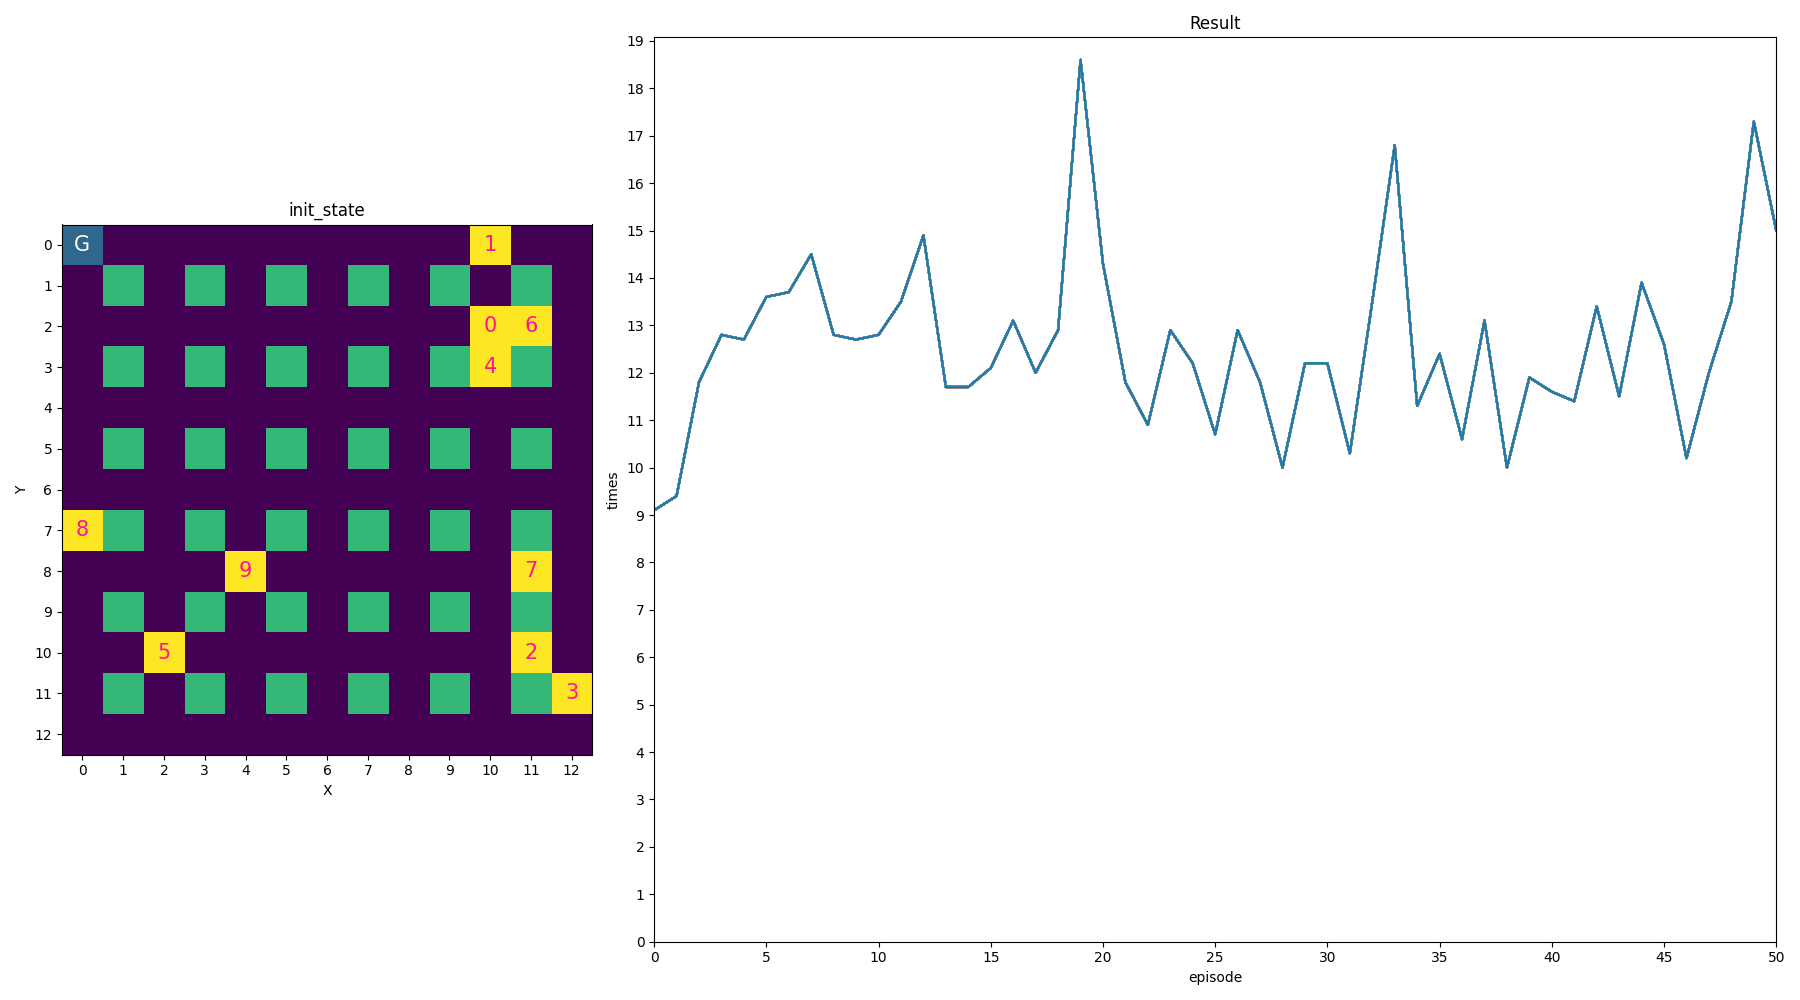
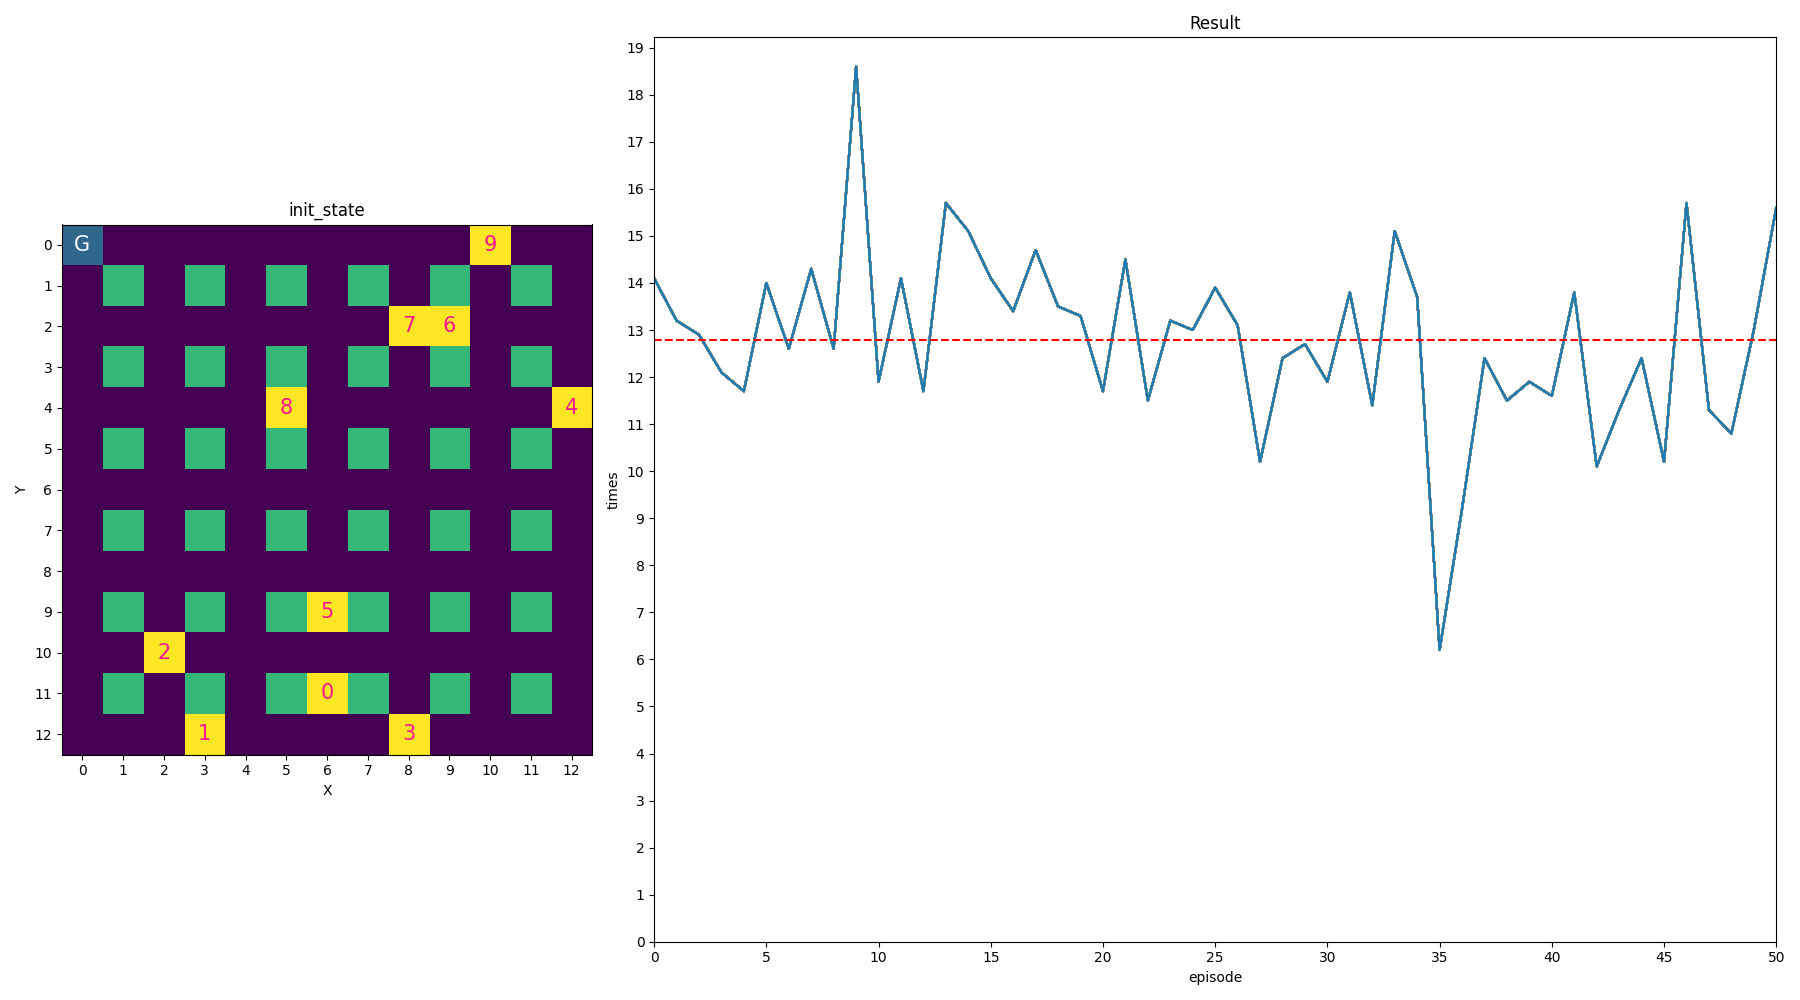
01/05 22:02

diff --git a/multi.py b/multi.py
@@ -87,7 +87,6 @@ if __name__ == '__main__':
         gs[0, 1:],
         xlabel="episode",
         ylabel="times",
-        title="Result",
         xlim=(0,NB_EPISODE-1))
     avg = episode_reward.mean(axis=1)
     print(avg)
@@ -95,6 +94,7 @@ if __name__ == '__main__':
     lines = [ax2.plot(np.arange(NB_EPISODE),avg) for episode in range(NB_EPISODE)]
     y_min, max_y = ax2.get_ylim()
     ax2.set_ylim(0, max_y)
+    ax2.hlines(avg.mean(),0,NB_EPISODE,'red',linestyles='dashed')
     #ax2.legend(handles=lines[::-1], labels=[e for e in range(POPULATION)])
     #fig.legend()
     ax1.xaxis.set_major_locator(ticker.MultipleLocator())
